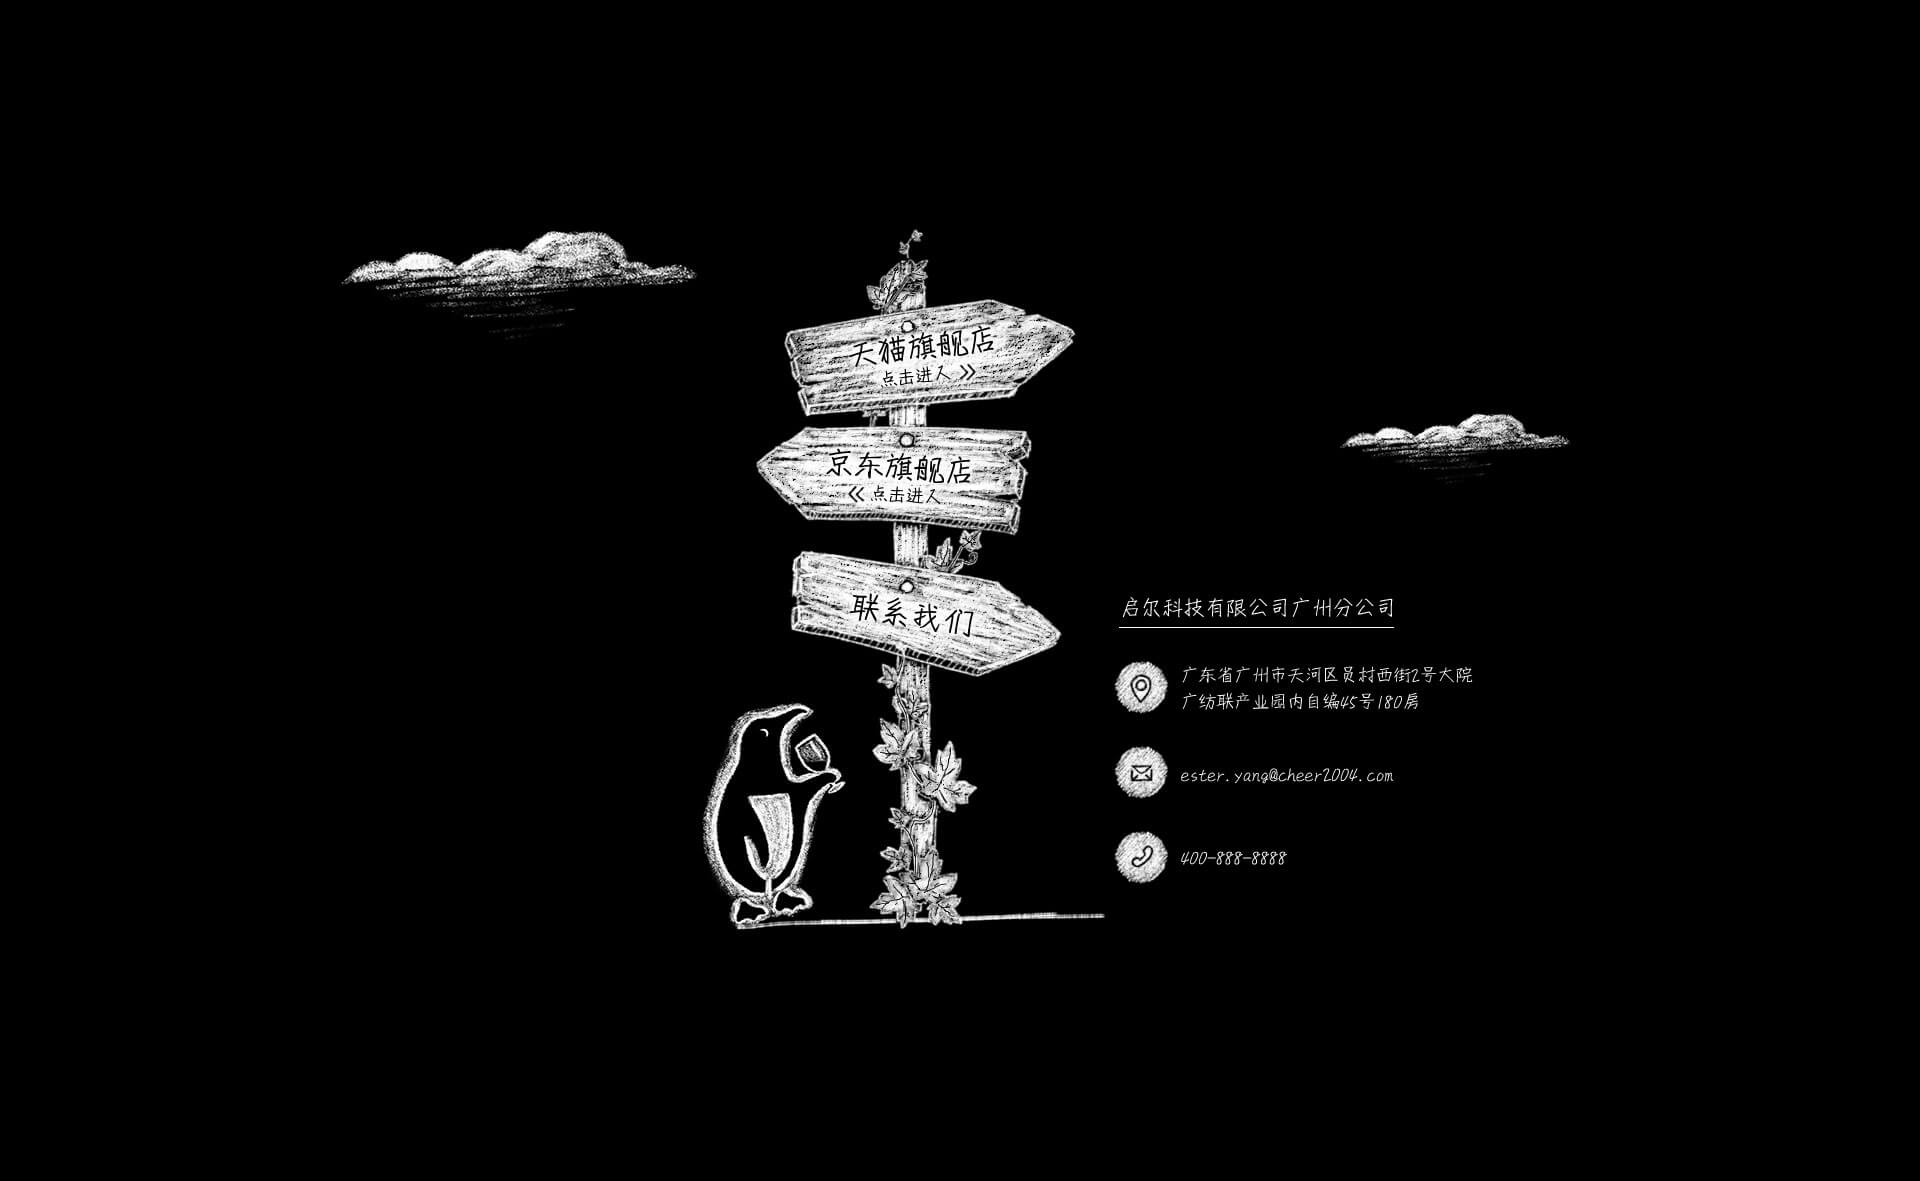
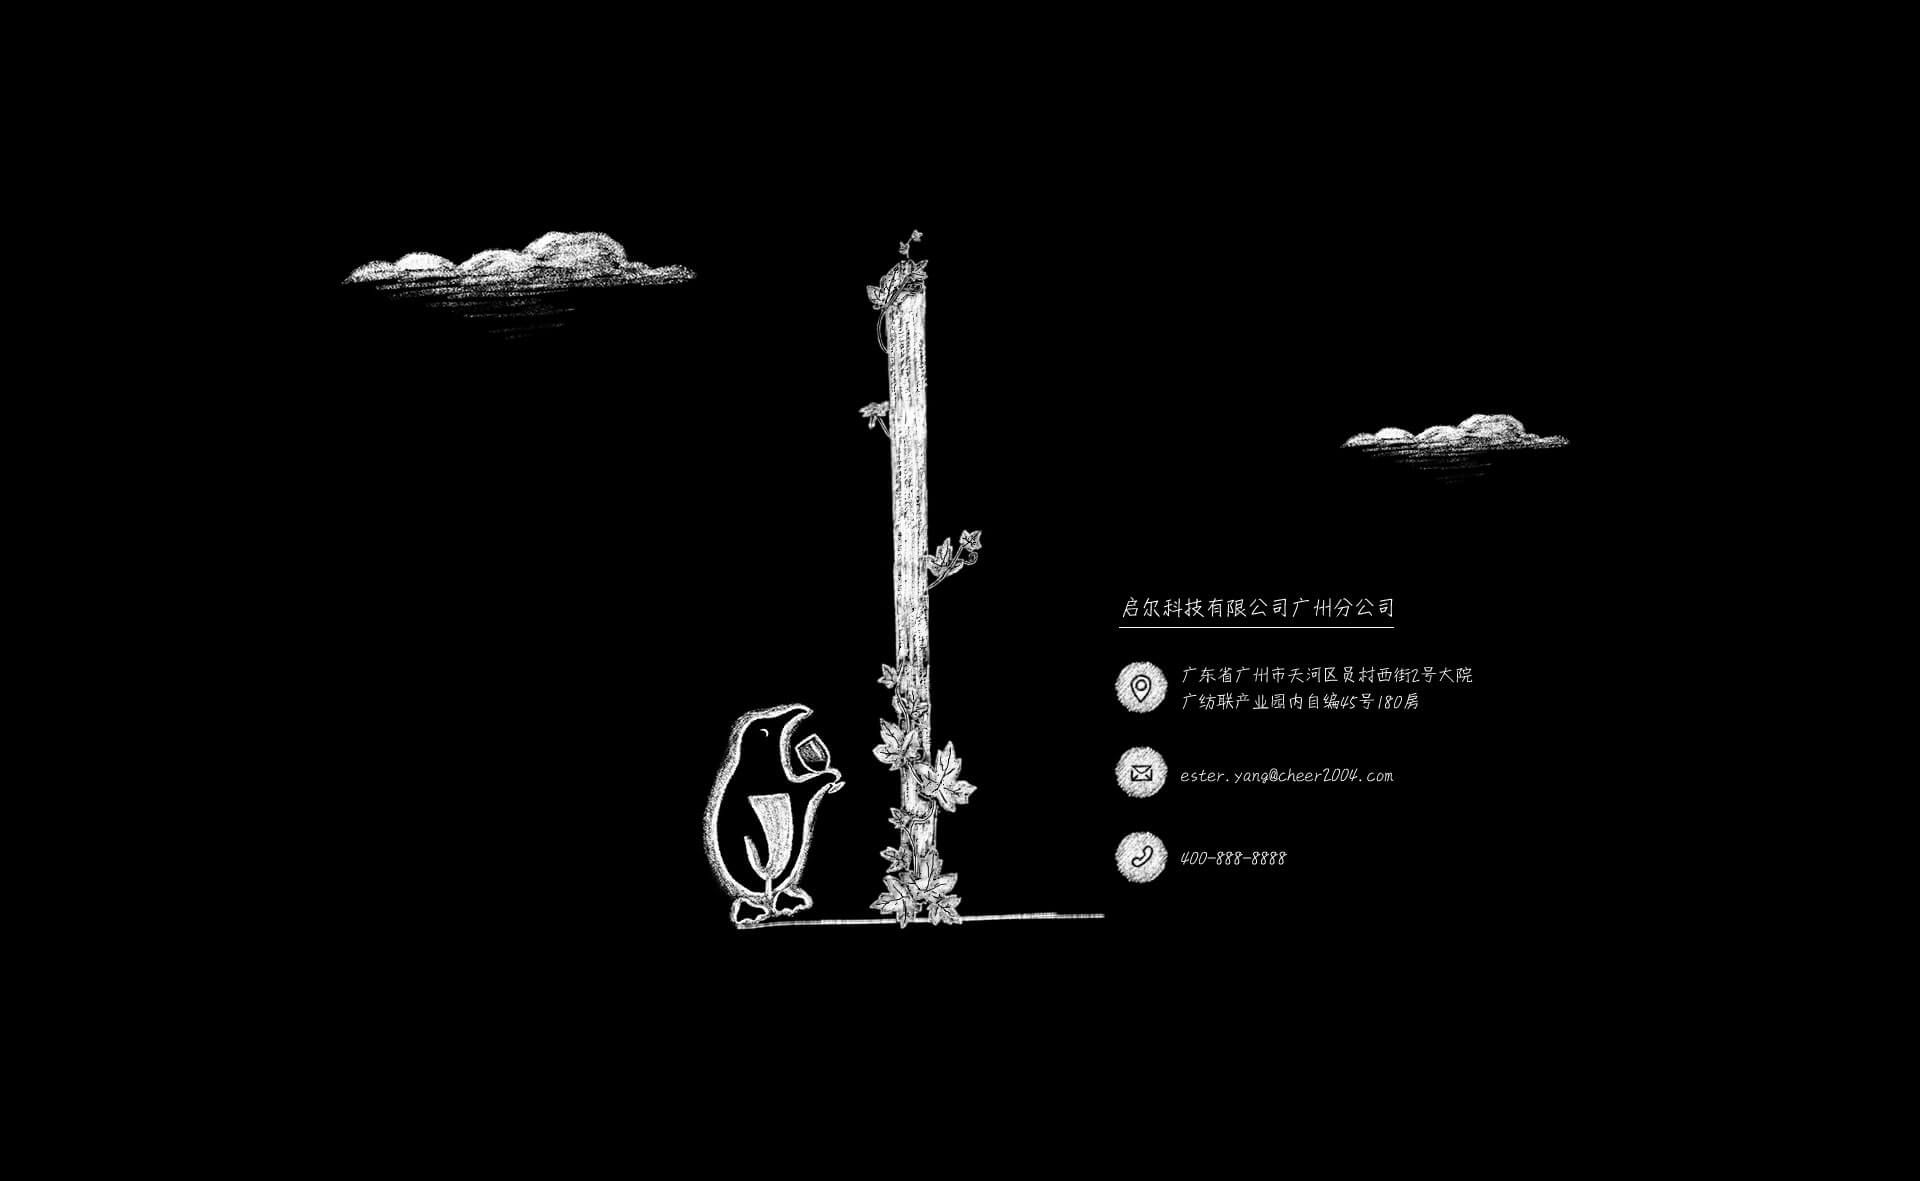
about
about

Changed region(s): [[0.375, 0.2439, 0.5625, 0.5792]]

diff --git a/src/components/About.vue b/src/components/About.vue
@@ -1,5 +1,12 @@
 <template>
   <div class="about" v-show="route === 'about'">
+    <div class="about-guide">
+      <a href="https://www.taobao.com/" class="about-href"></a>
+    </div>
+    <div class="about-guide">
+      <a href="https://www.taobao.com/" class="about-href"></a>
+    </div>
+    <div class="about-guide"></div>
   </div>
 </template>
 
@@ -23,5 +30,73 @@
     background-color: rgb(0, 0, 0);
     background-size: cover;
     background-position: center;
+    &-guide {
+      position: absolute;
+      width: 100%;
+      background-repeat: no-repeat;
+      background-size: cover;
+      background-position: center;
+      &:nth-of-type(1) {
+        top: 299px;
+        height: 117px;
+        background-image: url(../img/about-tmall.png);
+        -webkit-transform-origin: 47.4% 27px;
+        transform-origin: 47.4% 27px;
+      }
+      &:nth-of-type(2) {
+        top: 421px;
+        height: 117px;
+        background-image: url(../img/about-jd.png);
+        -webkit-transform-origin: 47.4% 20px;
+        transform-origin: 47.3% 20px;
+      }
+      &:nth-of-type(3) {
+        top: 550px;
+        height: 129px;
+        background-image: url(../img/about-contact.png);
+        -webkit-transform-origin: 47.4% 37px;
+        transform-origin: 47.3% 37px;
+      }
+      &:hover {
+        -webkit-animation-name: swing;
+        animation-name: swing;
+        -webkit-animation-duration: 0.3s;
+        animation-duration: 0.3s;
+        -webkit-animation-fill-mode: both;
+        animation-fill-mode: both;
+      }
+    }
+    &-href {
+      display: block;
+      margin: 0 auto;
+      width: 400px;
+      height: 117px;
+    }
+  }
+  @keyframes swing {
+    20% {
+      -webkit-transform: rotate3d(0, 0, 1, 15deg);
+      transform: rotate3d(0, 0, 1, 15deg);
+    }
+
+    40% {
+      -webkit-transform: rotate3d(0, 0, 1, -10deg);
+      transform: rotate3d(0, 0, 1, -10deg);
+    }
+
+    60% {
+      -webkit-transform: rotate3d(0, 0, 1, 5deg);
+      transform: rotate3d(0, 0, 1, 5deg);
+    }
+
+    80% {
+      -webkit-transform: rotate3d(0, 0, 1, -5deg);
+      transform: rotate3d(0, 0, 1, -5deg);
+    }
+
+    to {
+      -webkit-transform: rotate3d(0, 0, 1, 0deg);
+      transform: rotate3d(0, 0, 1, 0deg);
+    }
   }
 </style>

diff --git a/src/App.vue b/src/App.vue
@@ -37,7 +37,8 @@
   @import './css/normalize.less';
   .app {
     position: relative;
-    /*width: 1920px;*/
+    min-width: 100px;
+    overflow: hidden;
   }
   .fade-enter-active, .fade-leave-active {
     transition: opacity .5s
